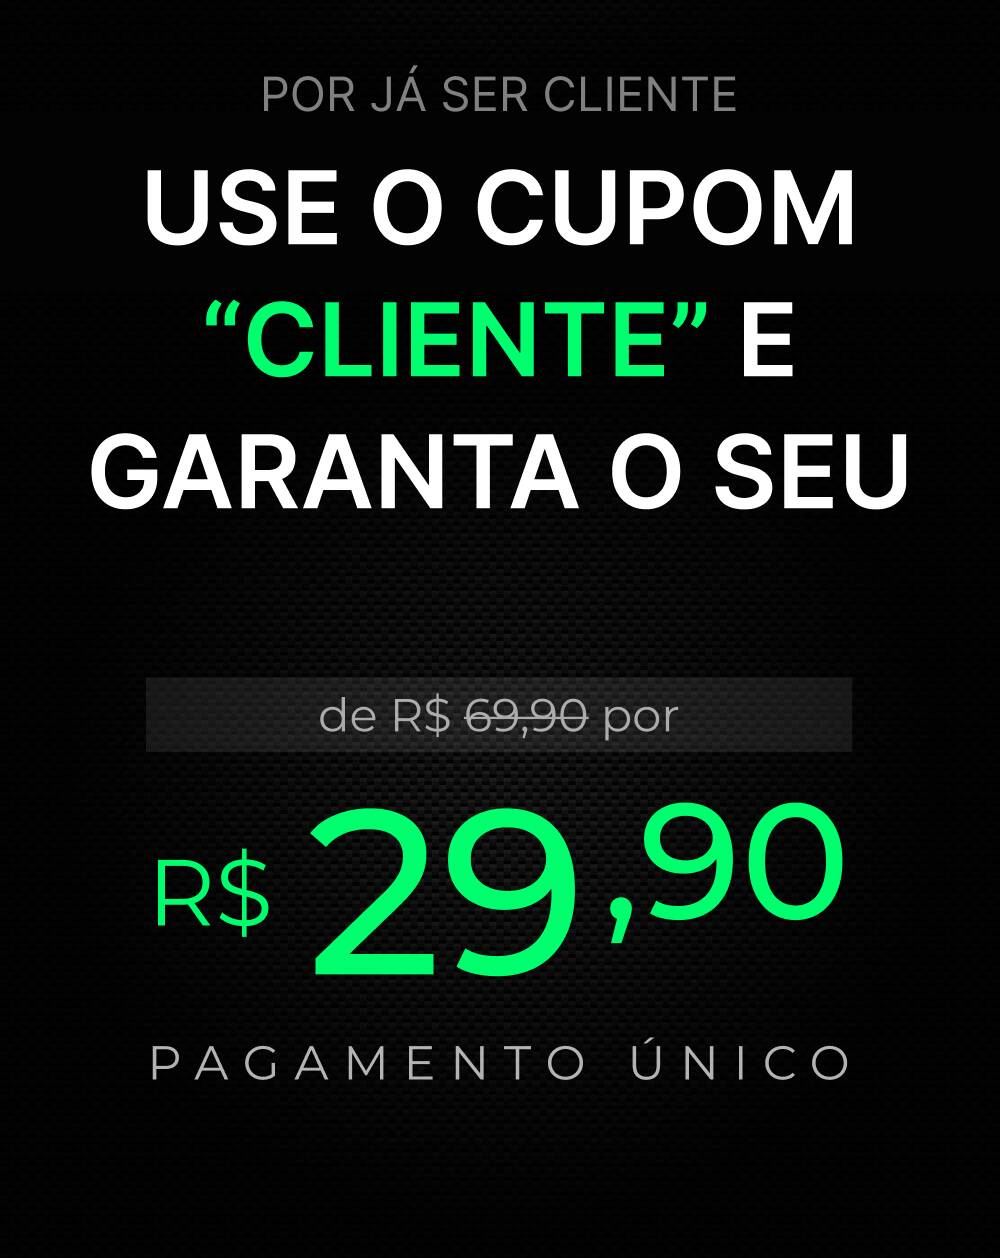
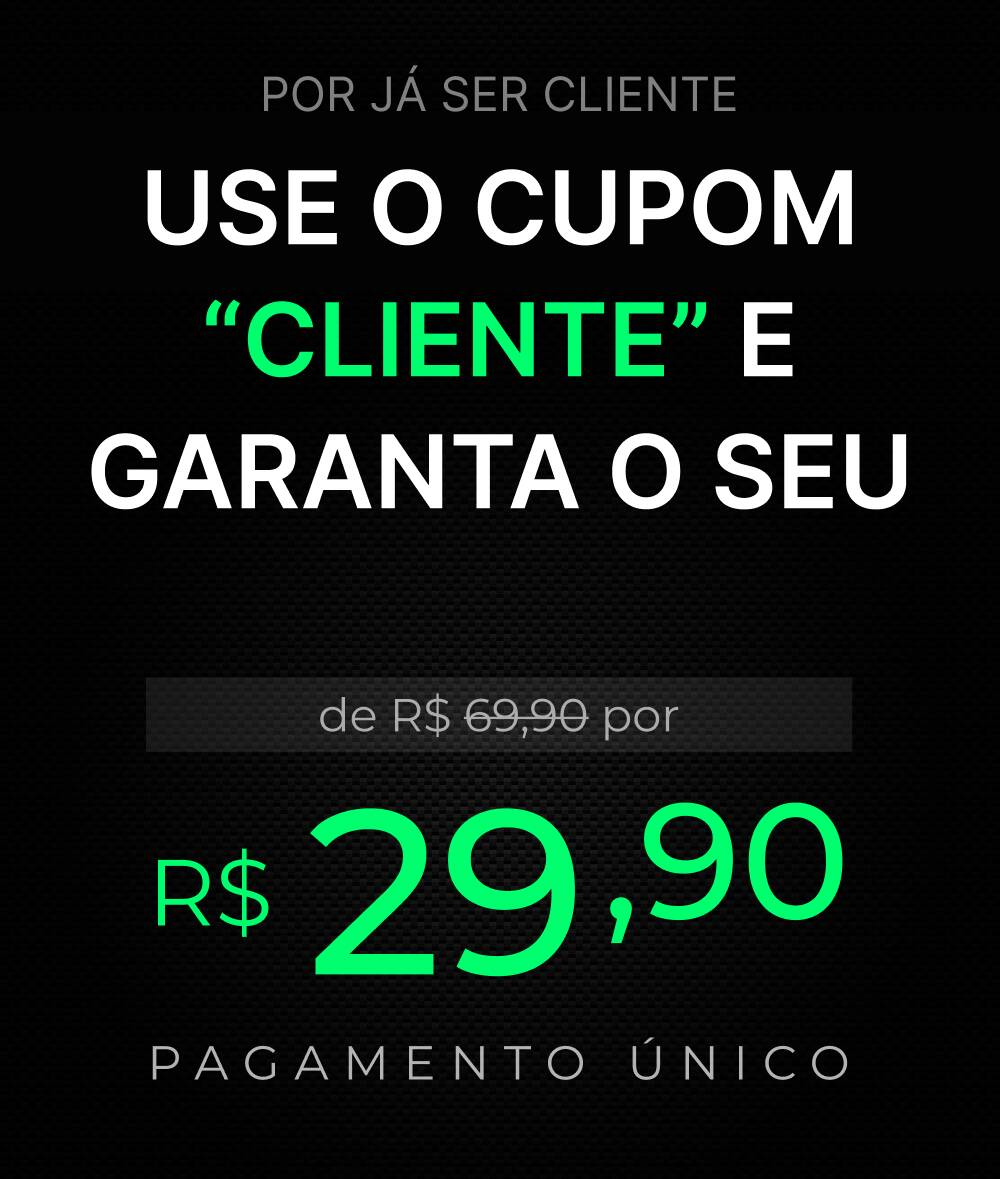
agora vai

diff --git a/src/app/api/marketing/send/route.ts b/src/app/api/marketing/send/route.ts
@@ -115,9 +115,27 @@ export async function POST(request: NextRequest) {
           // Montar email completo
           const fullHtml = html + unsubscribeFooter + trackingPixel
 
+          // Formatar o destinatário como "Para Nome Completo <email>" se tiver nome
+          let formattedName = ''
+          if (send.member_name) {
+            formattedName = send.member_name
+              .trim()
+              .toLowerCase()
+              .split(' ')
+              .map(word => {
+                if (!word) return ''
+                // Preposições comuns que devem ficar em minúsculas
+                const prep = ['de', 'da', 'do', 'das', 'dos', 'e']
+                if (prep.includes(word)) return word
+                return word.charAt(0).toUpperCase() + word.slice(1)
+              })
+              .join(' ')
+          }
+          const toAddress = formattedName ? `Para ${formattedName} <${send.email}>` : send.email
+
           await resend.emails.send({
             from: `${campaign.from_name} <${campaign.from_email}>`,
-            to: send.email,
+            to: toAddress,
             subject: campaign.subject,
             html: fullHtml,
           })
